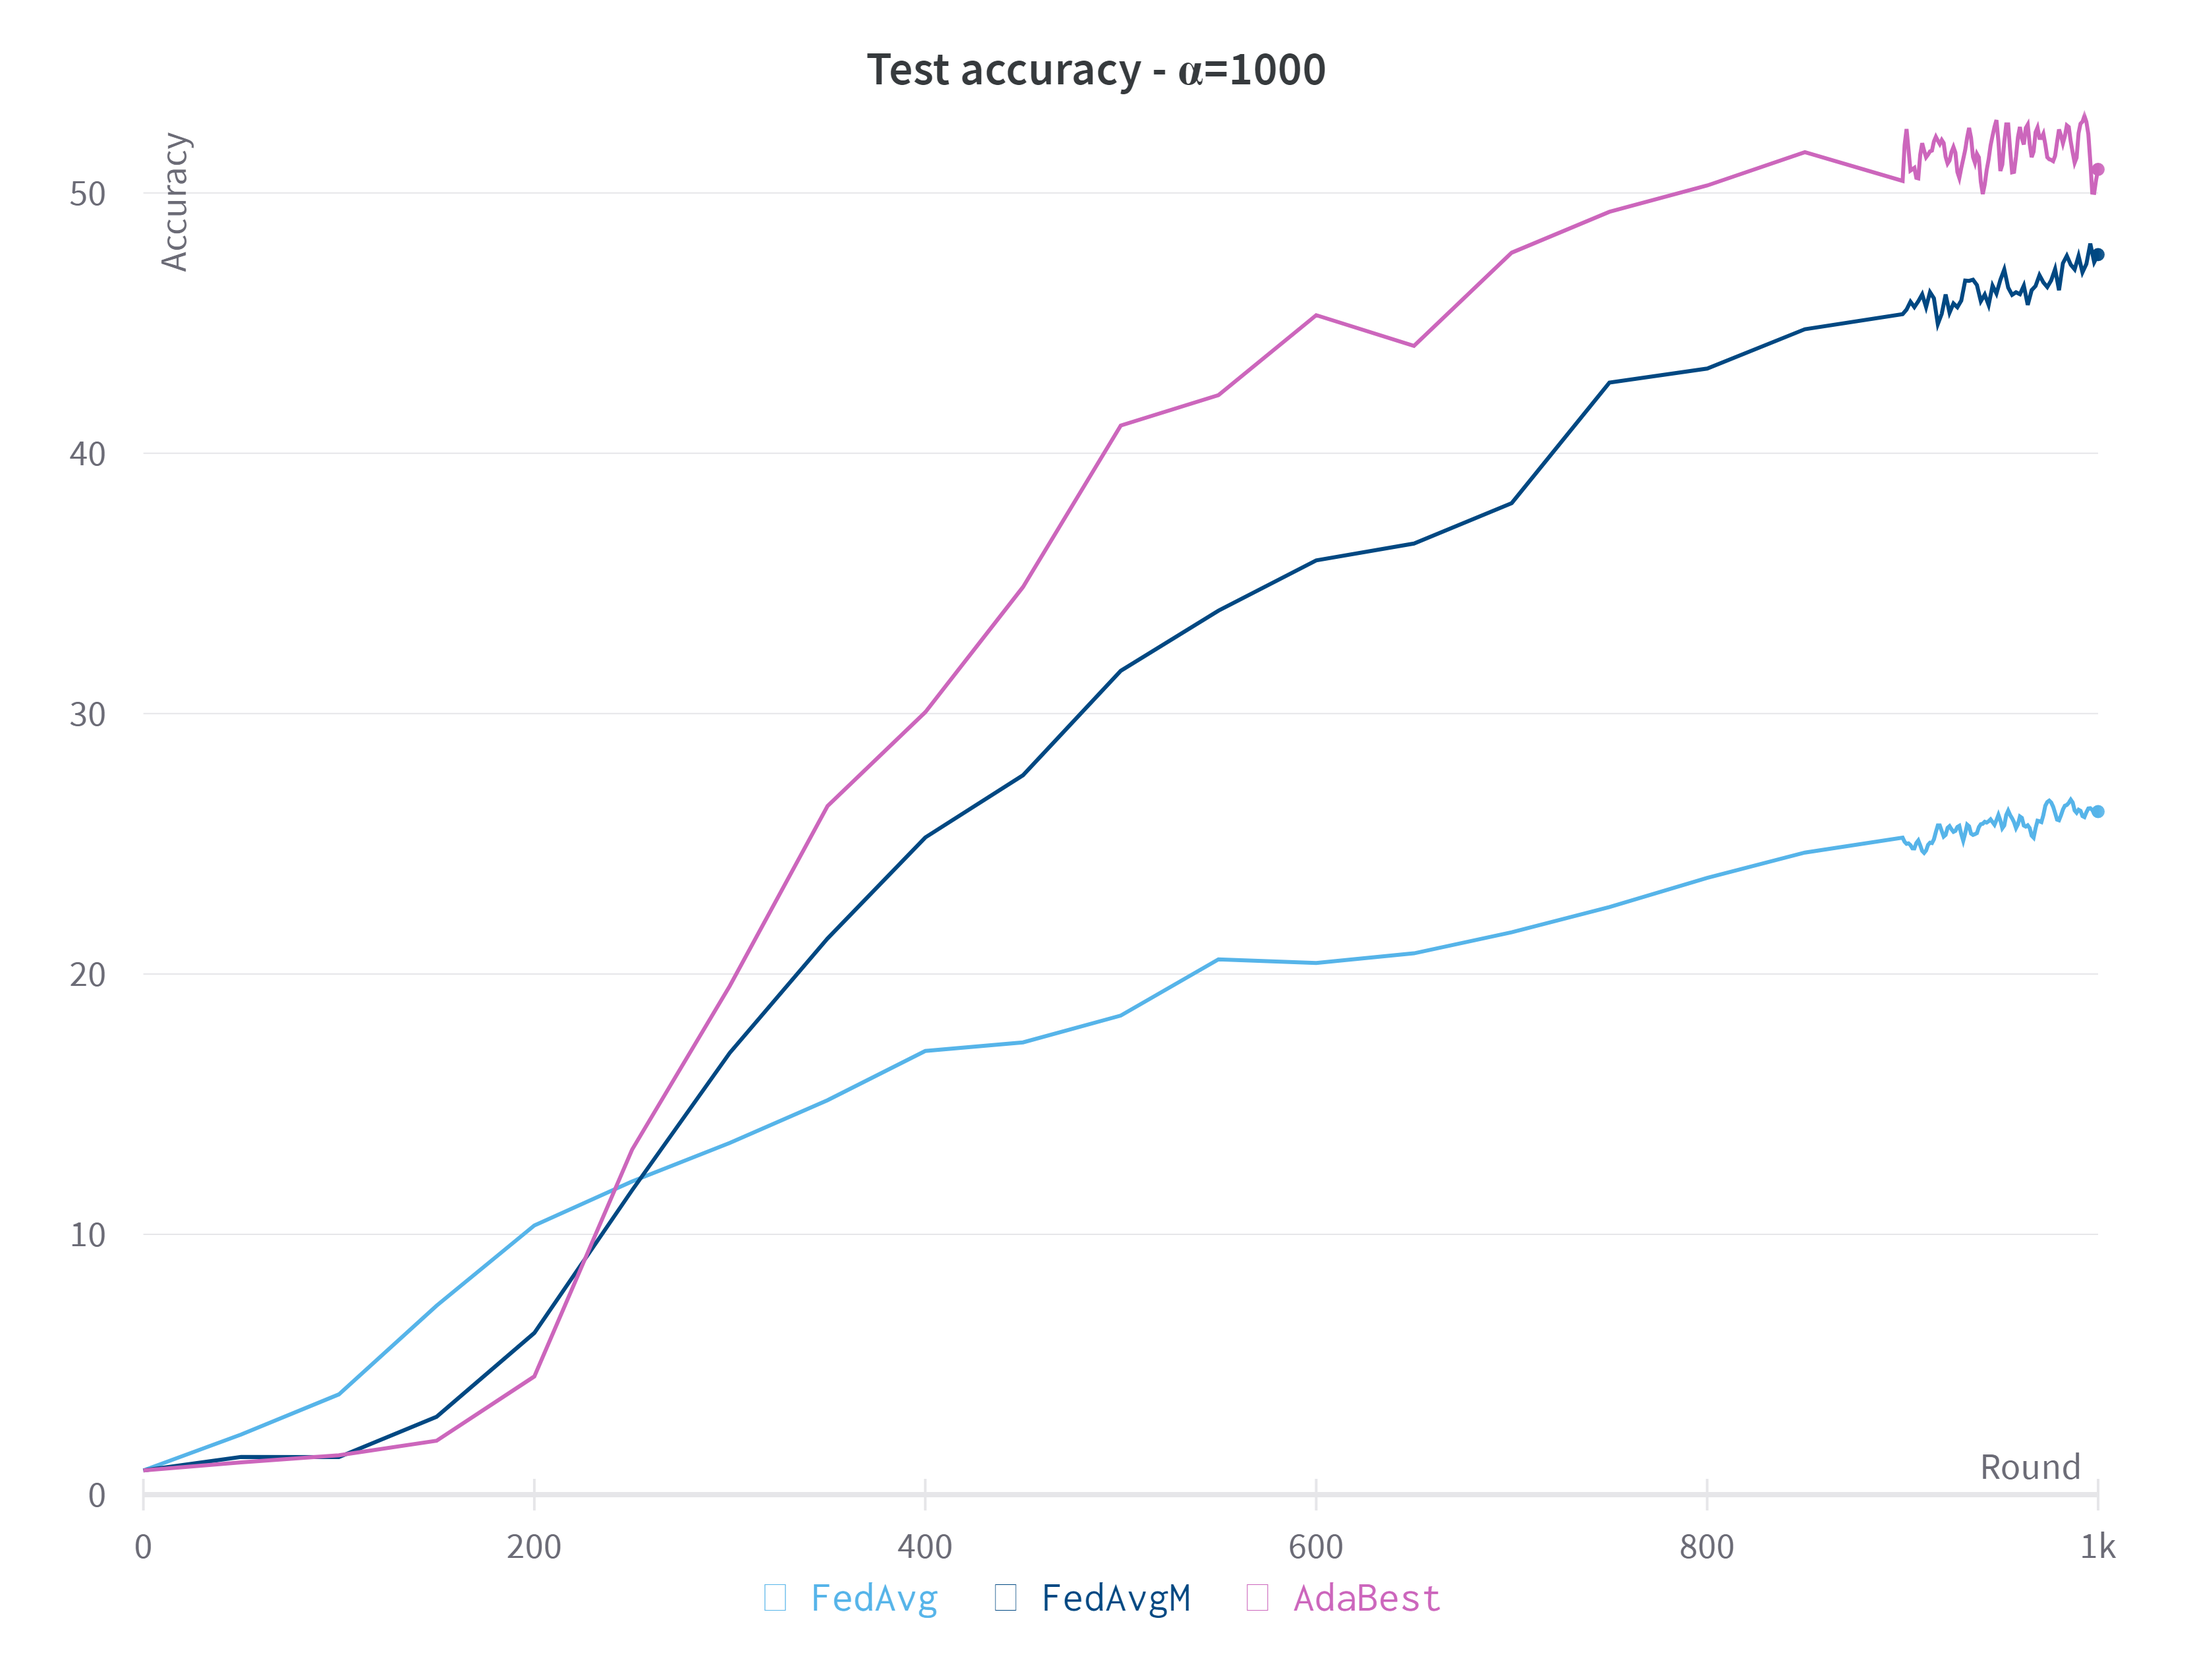
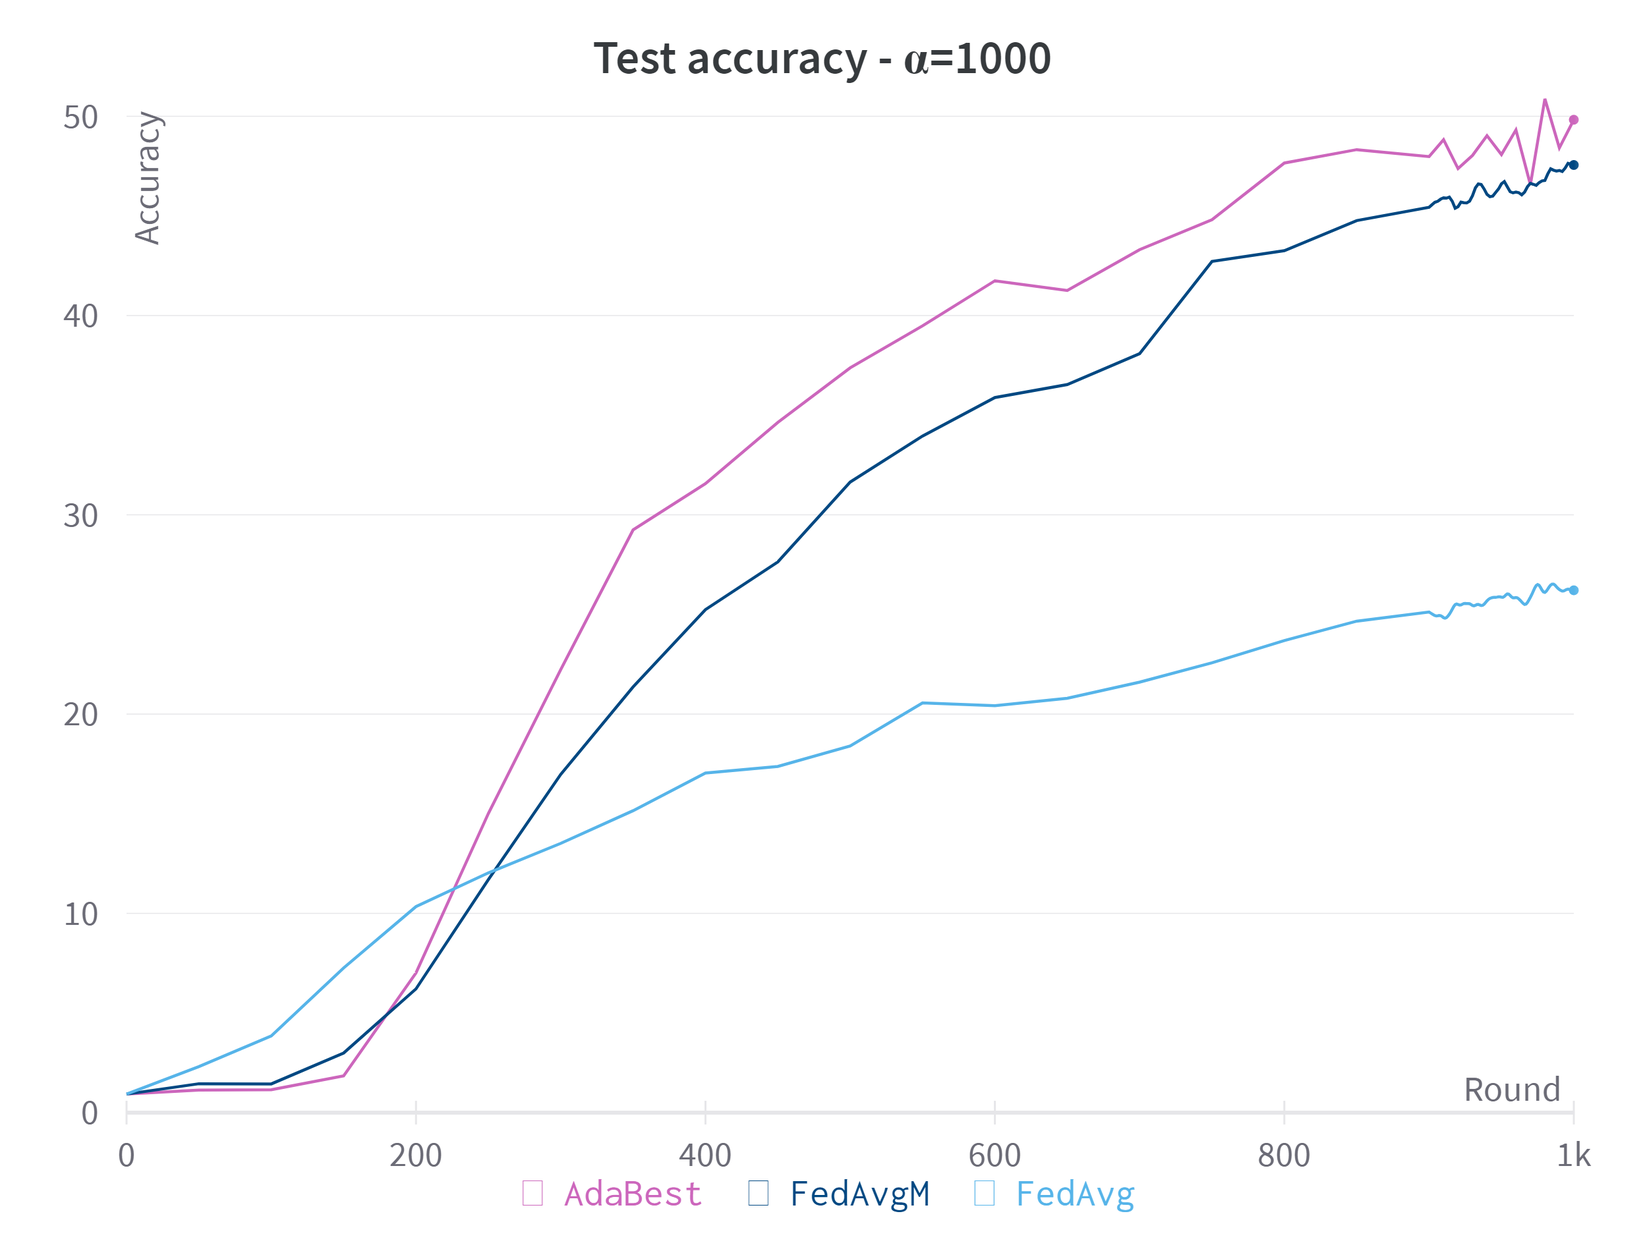
Updated server model t-1 in client

diff --git a/models/clients/adabest_client.py b/models/clients/adabest_client.py
@@ -1,4 +1,4 @@
-import copy
+from copy import deepcopy
 import torch
 
 from .client import Client
@@ -14,10 +14,11 @@ class AdaBestClient(Client):
         self.mu = mu
         self.historical = { name: 0.0 for name, _ in self.model.named_parameters() }
         self.last_round = 0
-        self.server_model = { name: value for name, value in self.model.named_parameters() }
+        self.server_model = deepcopy(self.model.state_dict())
 
 
     def train(self, num_epochs=1, batch_size=10, minibatch=None, round=1):
+        self.server_model = deepcopy(self.model.state_dict())
         num_train_samples, update = super(AdaBestClient, self).train(num_epochs, batch_size, minibatch)
 
         # Update local gradient estimates
